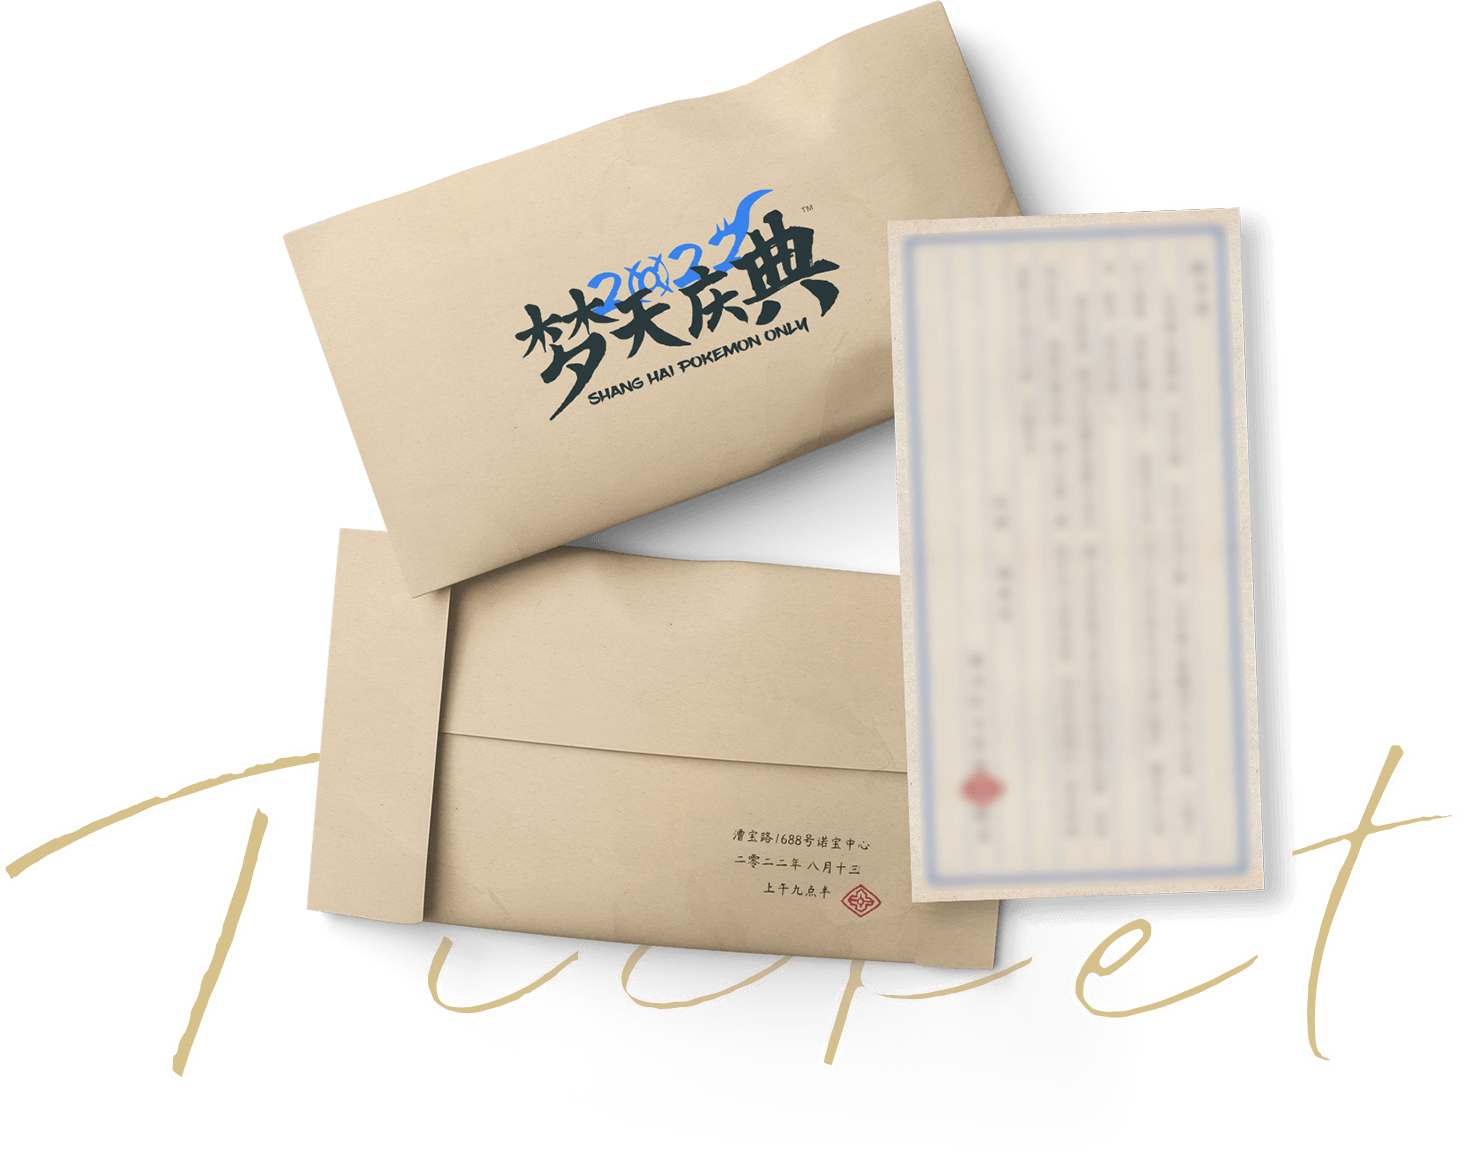
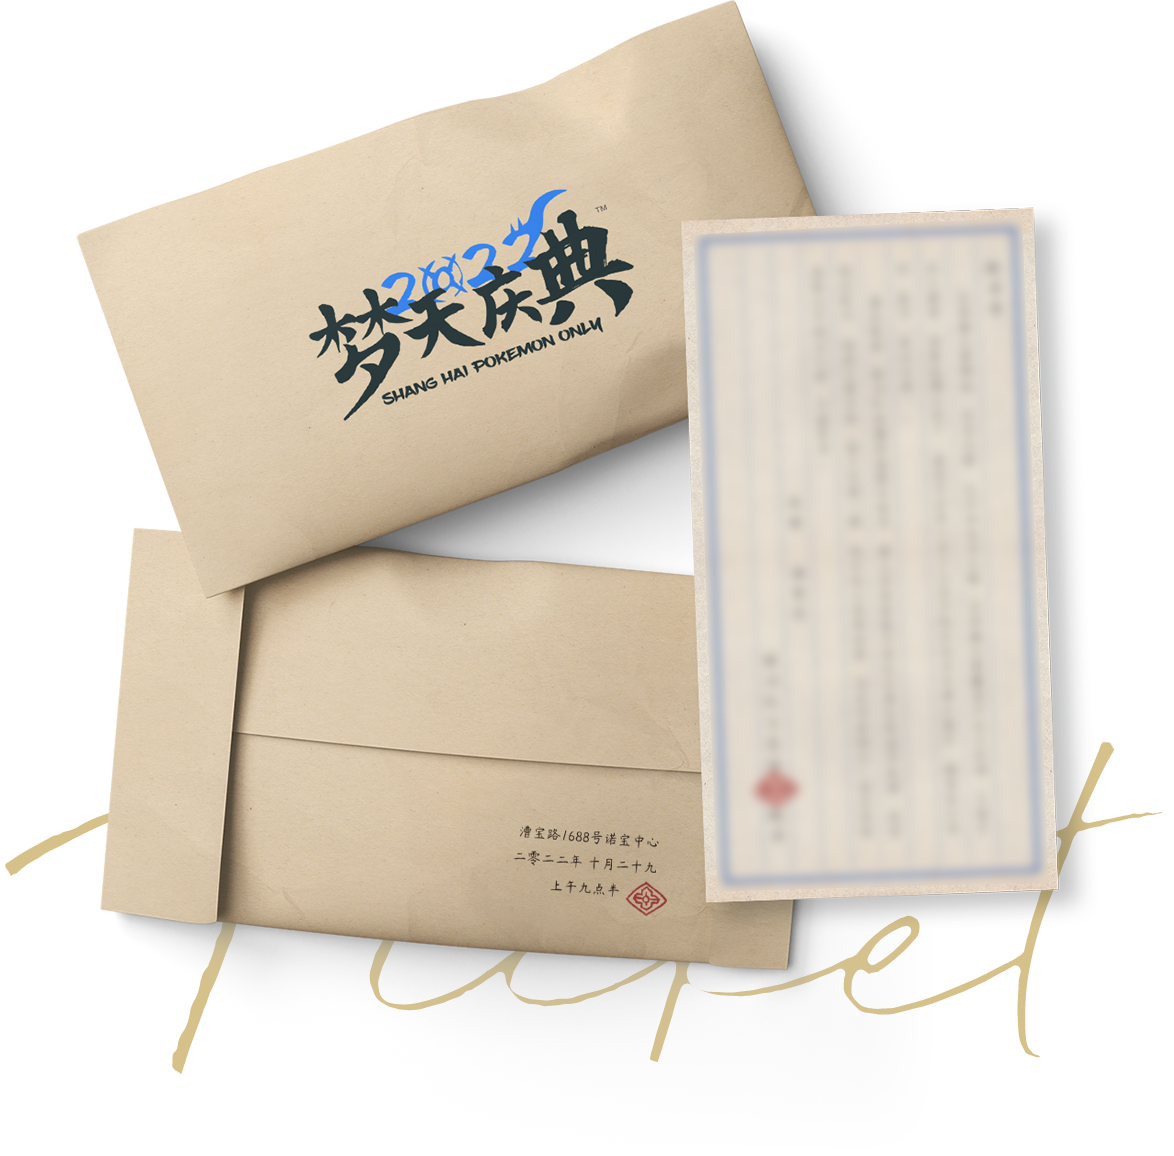
Update ticket sample picture.

Changed region(s): [[0.0307, 0.0, 0.9813, 0.9343]]

diff --git a/src/pages/home/Tickets.vue b/src/pages/home/Tickets.vue
@@ -29,10 +29,10 @@
     <svg class="tickets-background" viewBox="0 0 1920 1156">
       <image
         xlink:href="../../assets/page-backgrounds/tickets.png"
-        x="60"
+        x="350"
         y="0"
         height="1156"
-        width="1464"
+        width="1174"
       />
     </svg>
     <ul class="ticket-list">
